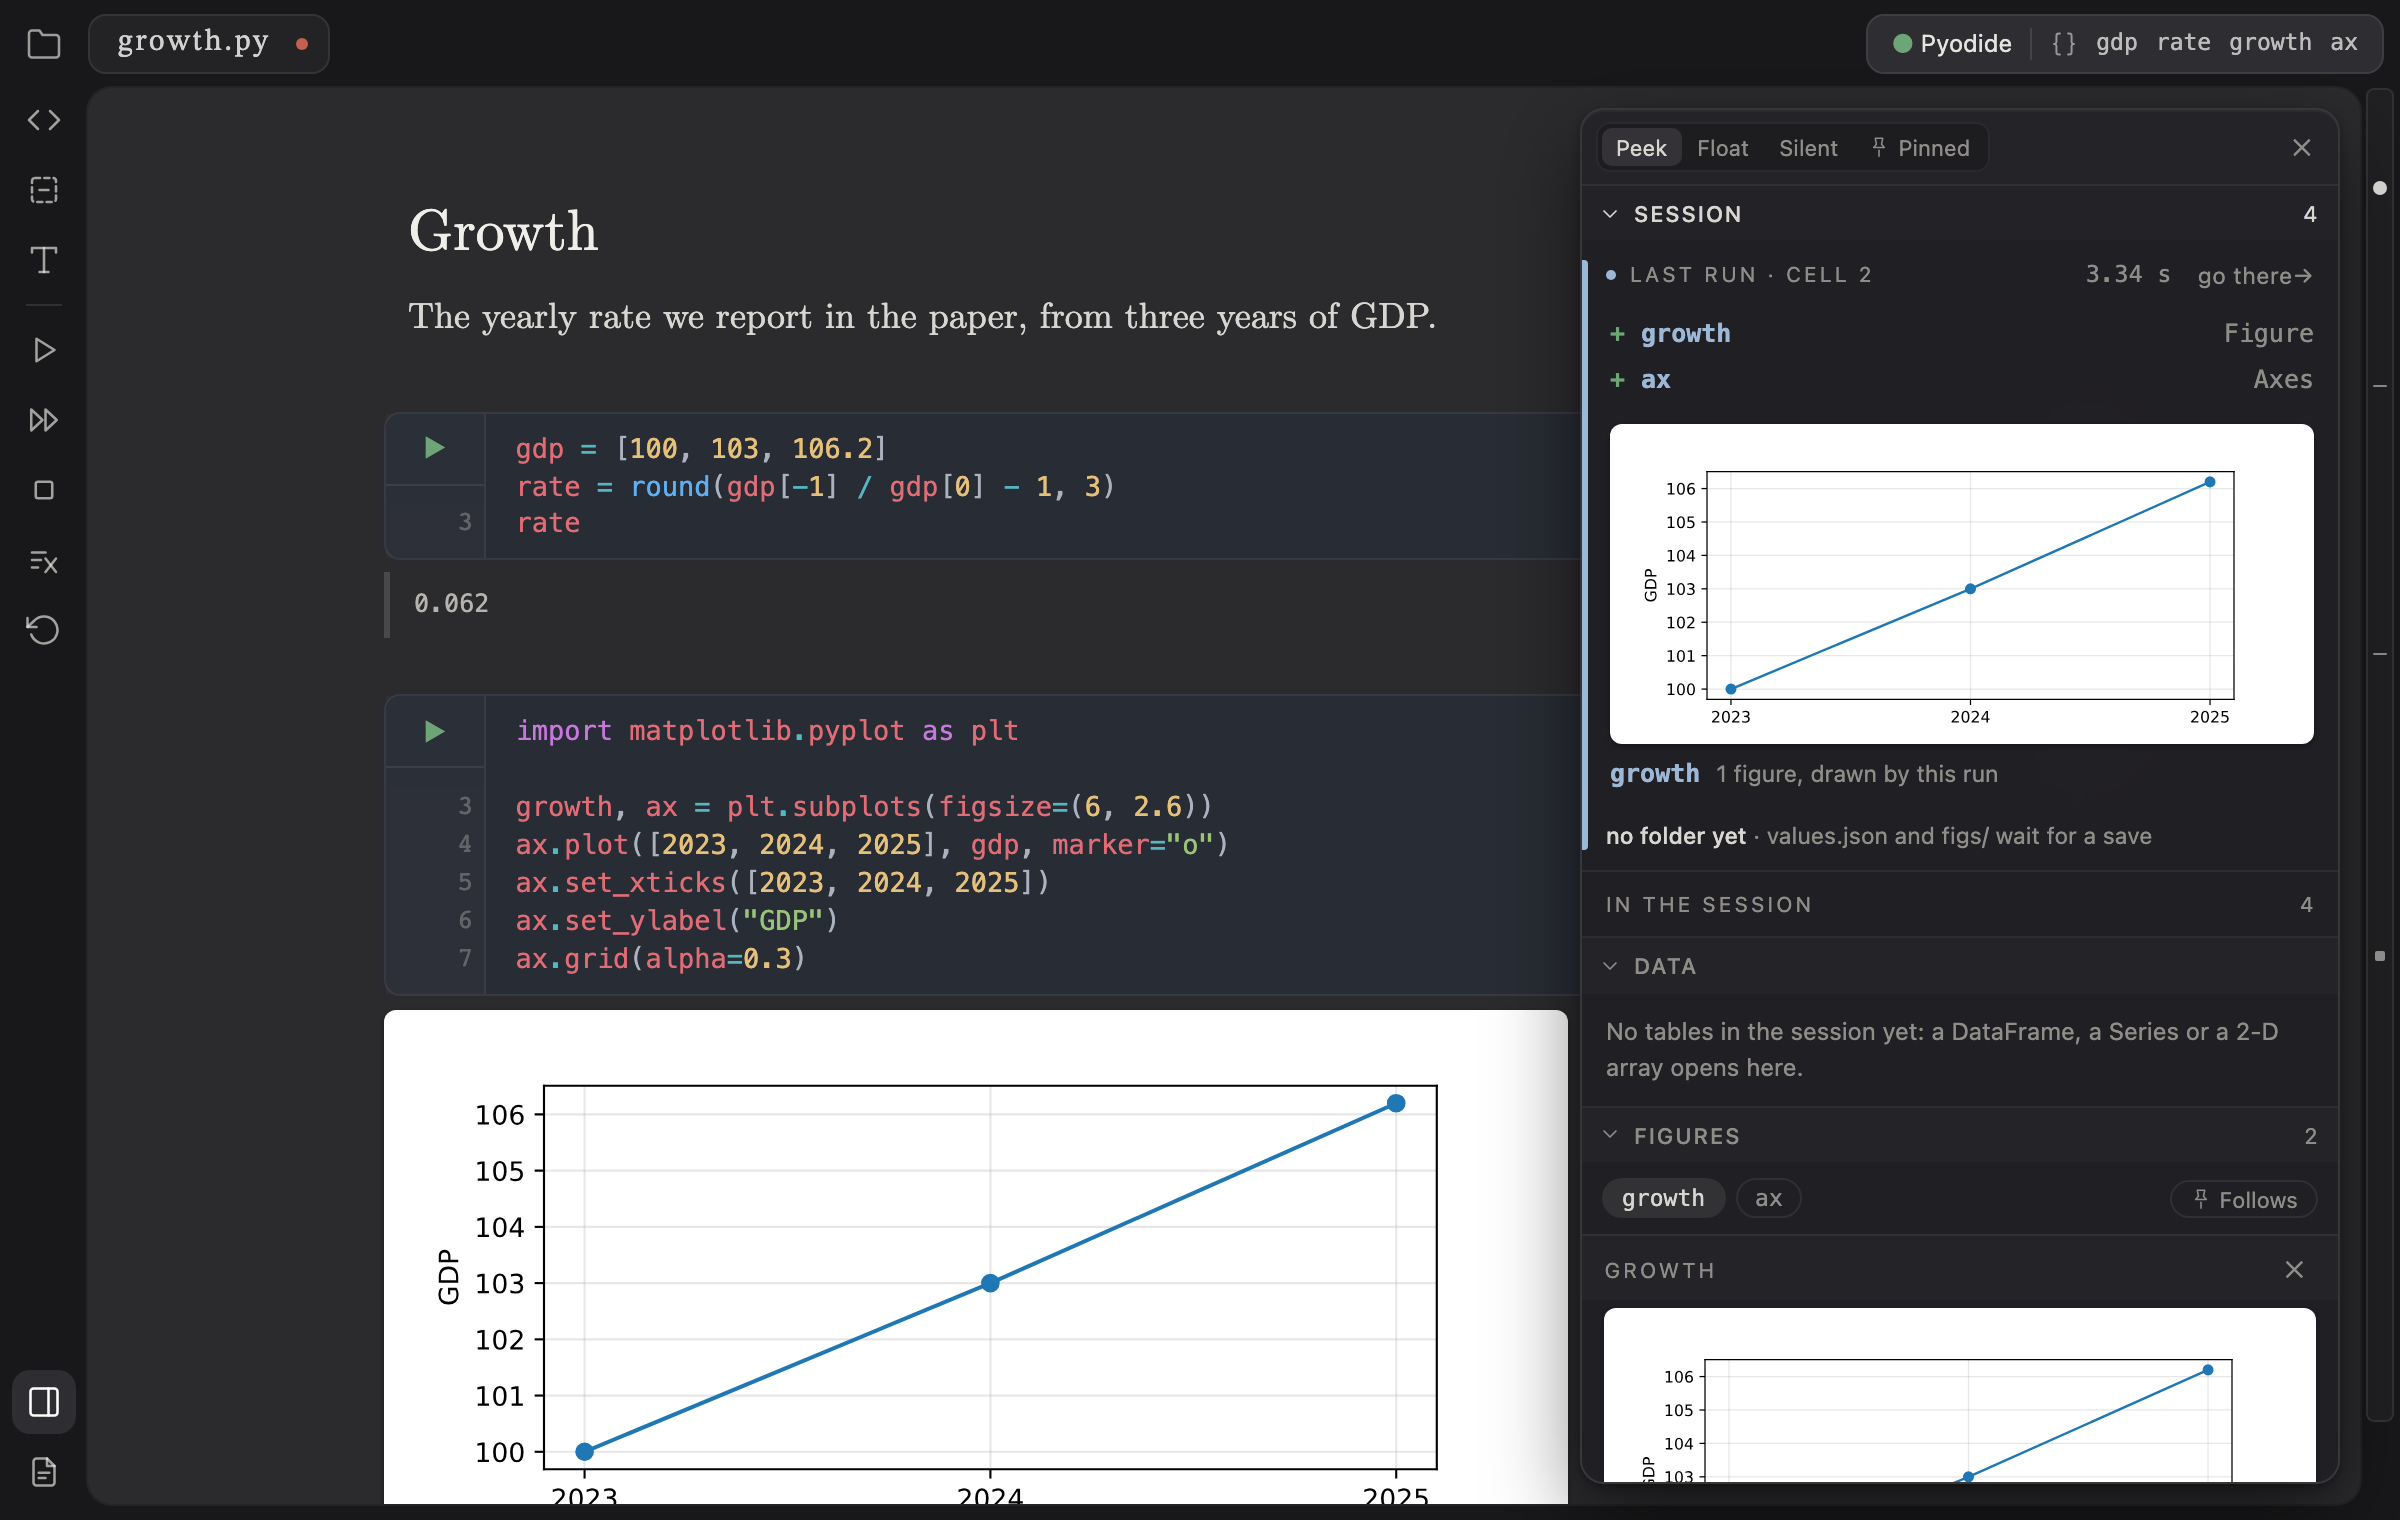
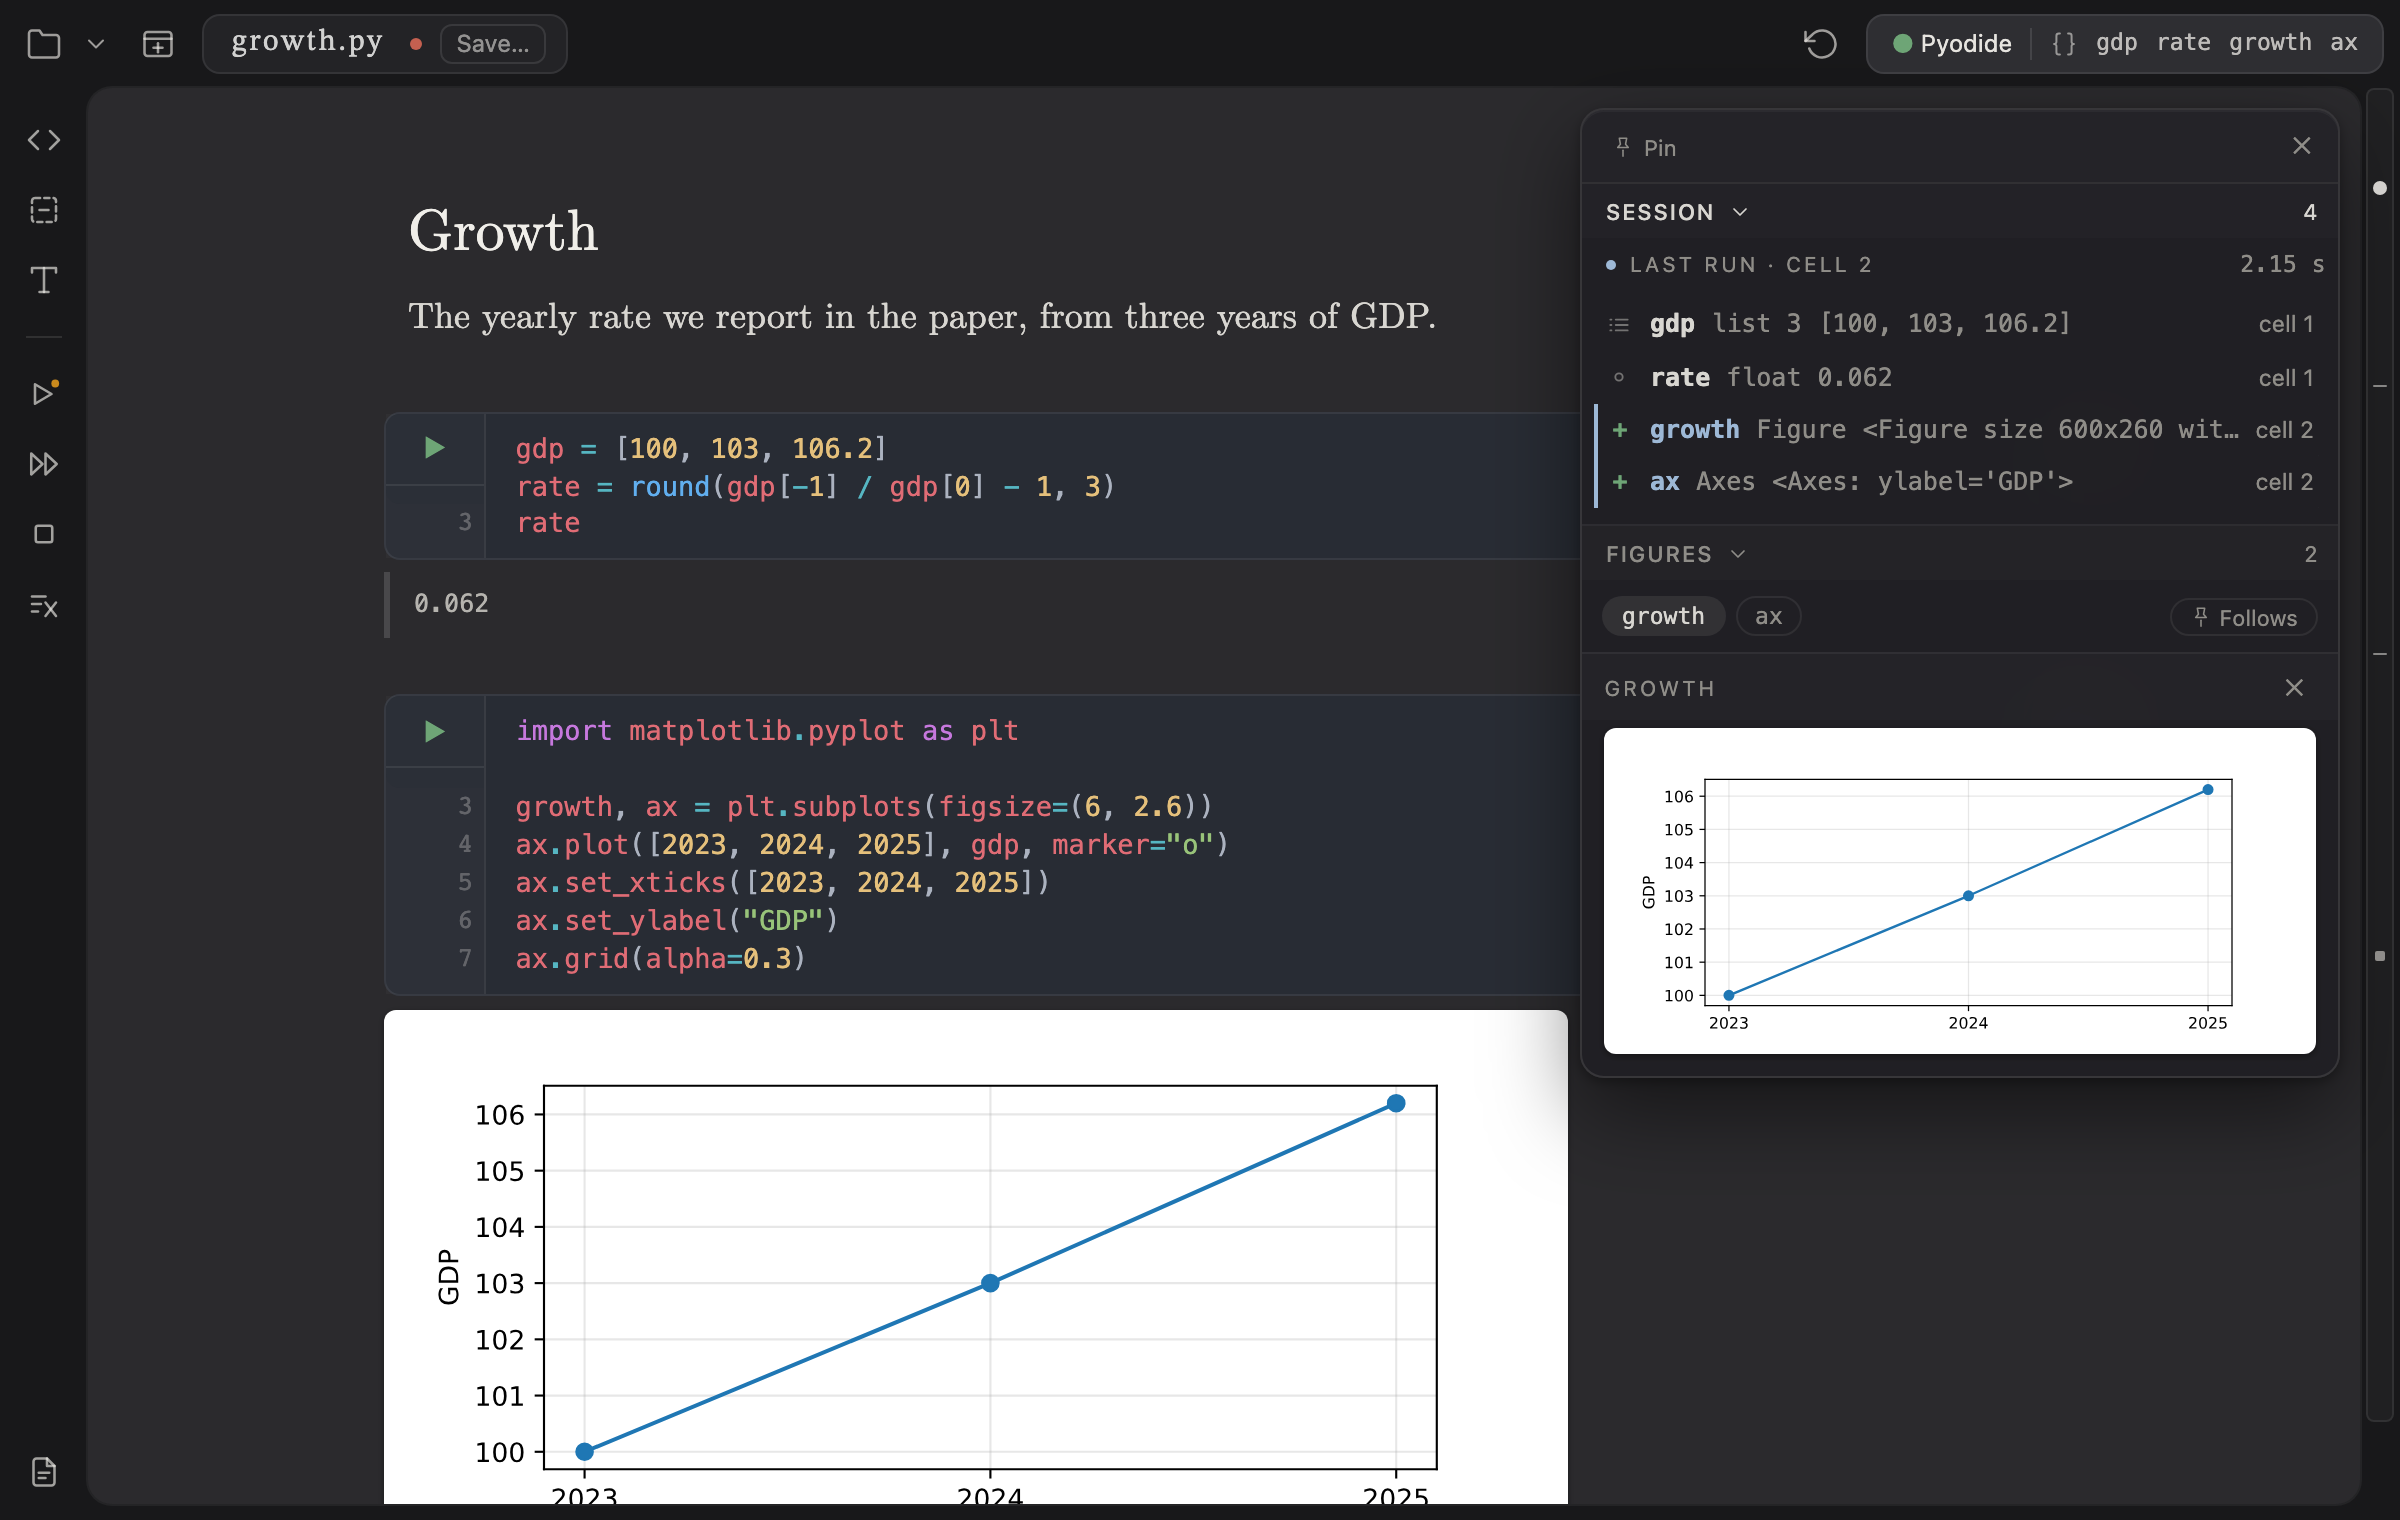
Retake the README's screenshots for the new bar and Session card
The merged pictures showed the File tile and the Session card's old
receipt band; npm run screenshots retook all three against today's
page, and the Session picture's alt text says what it now shows.

diff --git a/README.md b/README.md
@@ -123,7 +123,7 @@ and rewrites the outputs and `values.json`. Scratch cells don't run.
 Click the pill at the top right to see everything the session holds.
 DataFrames open in a table you can scroll; figures open full size.
 
-![The Session card open beside the document: what the last run added, growth and ax, with the figure it drew, then the session's data and figures](docs/images/session.png)
+![The Session card open beside the document: one list of what the session holds, growth and ax marked + by the last run, then the figure it drew](docs/images/session.png)
 
 ## Packages
 
